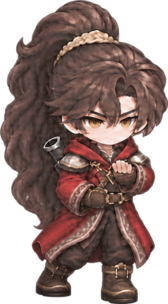
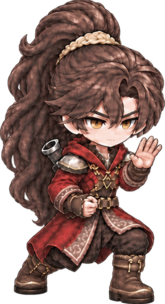
Refine angled guard grip and add fallen soldier sprites

diff --git a/tools/build_guard_frames.py b/tools/build_guard_frames.py
@@ -10,10 +10,13 @@ HEIGHT = 304
 # One generated source row: side, front diagonal, rear diagonal, front, back.
 # Rear diagonal source looks left, so mirror the entire pose before registration.
 VIEWS = ['side', 'down', 'up-back', 'front', 'back']
-# Measured fist positions and support height in trimmed, 304px-high local space.
+# Measured right-fist positions and open left-palm centres in trimmed, 304px-high local space.
 # Keep the planted stance origin fixed when the rear foot changes position.
-FOOT_X = [95, 96.5, 84, 88, 74.5]
-ANCHORS = [(141, 200, 160), (116, 201, 164), (108, 201, 164), (88, 201, 165), (90, 201, 165)]
+FOOT_X = [100, 94, 84, 74, 88]
+ANCHORS = [(115, 209), (85, 208), (108, 207), (61, 196), (85, 205)]
+PALMS = [(181, 150), (146, 153), (173, 150), (128, 140), (13, 150)]
+BLADE_TILT_DEG = 50
+BLADE_LENGTH = 150
 
 
 def main():
@@ -21,34 +24,44 @@ def main():
     art = Image.open(source).convert('RGBA')
     frames, covers, tiles = [], [], []
     x = 4
-    ux, uy = math.sin(math.radians(12)), -math.cos(math.radians(12))
     for i, view in enumerate(VIEWS):
         left, right = round(i * art.width / 5), round((i + 1) * art.width / 5)
+        cell_source, offset = source, left
         cell = art.crop((left, 0, right, art.height))
+        if view == 'front':
+            cell_source, offset = ROOT / 'front-source.png', 0
+            cell = Image.open(cell_source).convert('RGBA')
         l, t, r, b = cell.getchannel('A').point(lambda a: 255 if a >= 128 else 0).getbbox()
         w = round((r - l) * HEIGHT / (b - t))
         tile = ROOT / f'{view}.png'
-        command = ['magick', str(source), '-crop', f'{r-l}x{b-t}+{left+l}+{t}', '+repage']
+        command = ['magick', str(cell_source), '-crop', f'{r-l}x{b-t}+{offset+l}+{t}', '+repage']
         if view == 'up-back':
             command += ['-flop']
         command += ['-resize', f'{w}x{HEIGHT}!', str(tile)]
         subprocess.run(command, check=True)
         foot = FOOT_X[i]
-        gx, gy, py = ANCHORS[i]
+        gx, gy = ANCHORS[i]
+        ux = math.sin(math.radians(BLADE_TILT_DEG)) * (-1 if view == 'back' else 1)
+        uy = -math.cos(math.radians(BLADE_TILT_DEG))
         grip = {'x': gx, 'y': gy}
-        palm = {'x': gx + (py - gy) * ux / uy, 'y': py}
         base = {'x': gx + ux * 12, 'y': gy + uy * 12}
+        palm = {'x': base['x'] + ux * BLADE_LENGTH / 2, 'y': base['y'] + uy * BLADE_LENGTH / 2}
+        measured_palm = {'x': PALMS[i][0], 'y': PALMS[i][1]}
+        assert math.hypot(palm['x'] - measured_palm['x'], palm['y'] - measured_palm['y']) < 14, view
         frame = {'name': f'guard-{view}', 'texture': 'hero-academy-guard', 'x': x, 'y': 4,
                  'w': w, 'h': HEIGHT, 'originX': foot / w, 'originY': 1, 'scale': 1,
-                 'grip': grip, 'supportGrip': palm, 'supportPalm': palm,
-                 'blade': {'base': base, 'tip': {'x': base['x'] + ux * 150, 'y': base['y'] + uy * 150}}}
+                 'grip': grip, 'supportGrip': palm, 'supportPalm': measured_palm,
+                 'blade': {'base': base, 'tip': {'x': base['x'] + ux * BLADE_LENGTH, 'y': base['y'] + uy * BLADE_LENGTH}}}
+        if view == 'front':
+            # Measured centre of the closed fist, distinct from the blade/hilt pivot.
+            frame['gripHandCenter'] = {'x': 58, 'y': 199}
         # Rear poses already hide their hands; put the complete weapon behind the body.
         if view in ['up-back', 'back']:
             frame['weaponBehind'] = True
         else:
             cw, ch = 30, 40
             cx = max(0, min(w - cw, round(palm['x'] - cw / 2)))
-            cy = round(py - ch / 2)
+            cy = round(measured_palm['y'] - ch / 2)
             name = f'guard-{view}-support'
             frame['supportCover'] = {'name': name, 'x': cx, 'y': cy, 'w': cw, 'h': ch}
             covers.append({'name': name, 'texture': 'hero-academy-guard', 'x': x + cx, 'y': 4 + cy, 'w': cw, 'h': ch})

diff --git a/tools/build_fallen_soldiers.py b/tools/build_fallen_soldiers.py
@@ -1,0 +1,45 @@
+"""Package four illustrated fallen village guards as individual sprites and an atlas."""
+import json
+import subprocess
+import tempfile
+from pathlib import Path
+from PIL import Image
+
+ROOT = Path(__file__).resolve().parents[1] / 'src/assets/characters/soldier'
+SOURCE = ROOT / 'fallen-source.png'
+NAMES = ['fallen-back', 'fallen-side', 'fallen-prone', 'fallen-curled']
+WIDTH, HEIGHT = 512, 384
+
+
+def main():
+    source = Image.open(SOURCE).convert('RGBA')
+    frames = []
+    with tempfile.TemporaryDirectory(prefix='fallen-guards-') as directory:
+        tiles = []
+        for i, name in enumerate(NAMES):
+            col, row = i % 2, i // 2
+            x0, y0 = round(source.width * col / 2), round(source.height * row / 2)
+            x1, y1 = round(source.width * (col + 1) / 2), round(source.height * (row + 1) / 2)
+            cell = source.crop((x0, y0, x1, y1))
+            box = cell.getchannel('A').point(lambda a: 255 if a >= 128 else 0).getbbox()
+            assert box, name
+            l, t, r, b = box
+            l, t, r, b = max(0, l - 4), max(0, t - 4), min(cell.width, r + 4), min(cell.height, b + 4)
+            tile = Path(directory) / f'{name}.png'
+            subprocess.run(['magick', str(SOURCE), '-crop', f'{r-l}x{b-t}+{x0+l}+{y0+t}', '+repage',
+                            '-resize', '464x336', '-background', 'none', '-gravity', 'center', '-extent', f'{WIDTH}x{HEIGHT}', str(tile)], check=True)
+            subprocess.run(['magick', str(tile), '-quality', '92', str(ROOT / f'{name}.webp')], check=True)
+            frames.append({'name': name, 'x': col * WIDTH, 'y': row * HEIGHT,
+                           'w': WIDTH, 'h': HEIGHT, 'originX': .5, 'originY': .5})
+            tiles.append(tile)
+        command = ['magick', '-size', f'{WIDTH*2}x{HEIGHT*2}', 'xc:none']
+        for frame, tile in zip(frames, tiles):
+            command += [str(tile), '-geometry', f"+{frame['x']}+{frame['y']}", '-compose', 'Over', '-composite']
+        command += ['-quality', '92', str(ROOT / 'fallen.webp')]
+        subprocess.run(command, check=True)
+    (ROOT / 'fallen-frames.json').write_text(json.dumps({'displayWidth': 180, 'frames': frames}, indent=2) + '\n')
+    print('Four fallen guard sprites and a 1024x768 atlas')
+
+
+if __name__ == '__main__':
+    main()

diff --git a/src/assets/characters/soldier/README.md b/src/assets/characters/soldier/README.md
@@ -14,3 +14,19 @@
 프레임 재측정: `python3 tools/build_npc_frames.py --characters soldier`
 
 런타임 압축은 `tools/build_rowen_assets.py`의 NPC 압축 규칙과 동일하다.
+
+## 쓰러진 병사 이미지
+
+기존 `sd_idle.png`를 기준으로 투구·녹색 제복·누비옷·둥근 방패를 유지한 정적 자세 4종입니다. 피나 노출된 상처 없이 눈을 감고 바닥에 쓰러진 모습입니다.
+
+- `fallen-source.png`: 이미지 생성 도구로 만든 투명 배경 2×2 원화.
+- `fallen-back.webp`: 등을 대고 누워 한쪽 무릎을 굽힌 모습.
+- `fallen-side.webp`: 옆으로 누운 모습.
+- `fallen-prone.webp`: 엎드려 방패와 등이 보이는 모습.
+- `fallen-curled.webp`: 옆으로 몸을 웅크린 모습.
+- 개별 파일은 512×384이며, `fallen.webp`는 네 자세를 모은 1024×768 아틀라스입니다.
+- `fallen-frames.json`: 각 영역과 몸 중심 원점(0.5, 0.5), 권장 월드 표시 너비 180을 담습니다.
+
+재생성: `python3 tools/build_fallen_soldiers.py` (Pillow로 영역 측정, ImageMagick으로 분리·압축).
+
+현재 병사 NPC의 보행·대화 상태와 사건 배치는 유지하며, 쓰러진 병사를 표시할 장면에서 사용할 이미지 에셋으로 준비했습니다.

diff --git a/src/assets/hero/academy/README.md b/src/assets/hero/academy/README.md
@@ -53,4 +53,4 @@ npm run test:browser
 
 ## 검 막기
 
-`guard/`의 전용 몸 자세와 장착 검을 사용합니다. 막기 중 아래 손은 손잡이를 잡고 위 손바닥은 검날 옆면을 받치며, 검은 수직에서 약 12도 기울여 세우며, 검날이 손바닥보다 앞에 보입니다. 원본과 좌표 재생성 방법은 `guard/README.md`를 참고합니다. 공격 그림과 궤적은 기존 시트를 그대로 사용합니다.
+`guard/`의 전용 몸 자세와 장착 검을 사용합니다. 막기 중 아래 손은 손잡이를 잡고 위 손바닥은 검날 옆면을 받치며, 검은 수직에서 약 50도 기울이고 왼손은 칼날 중간을 받치며, 검날이 손바닥보다 앞에 보입니다. 원본과 좌표 재생성 방법은 `guard/README.md`를 참고합니다. 공격 그림과 궤적은 기존 시트를 그대로 사용합니다.
